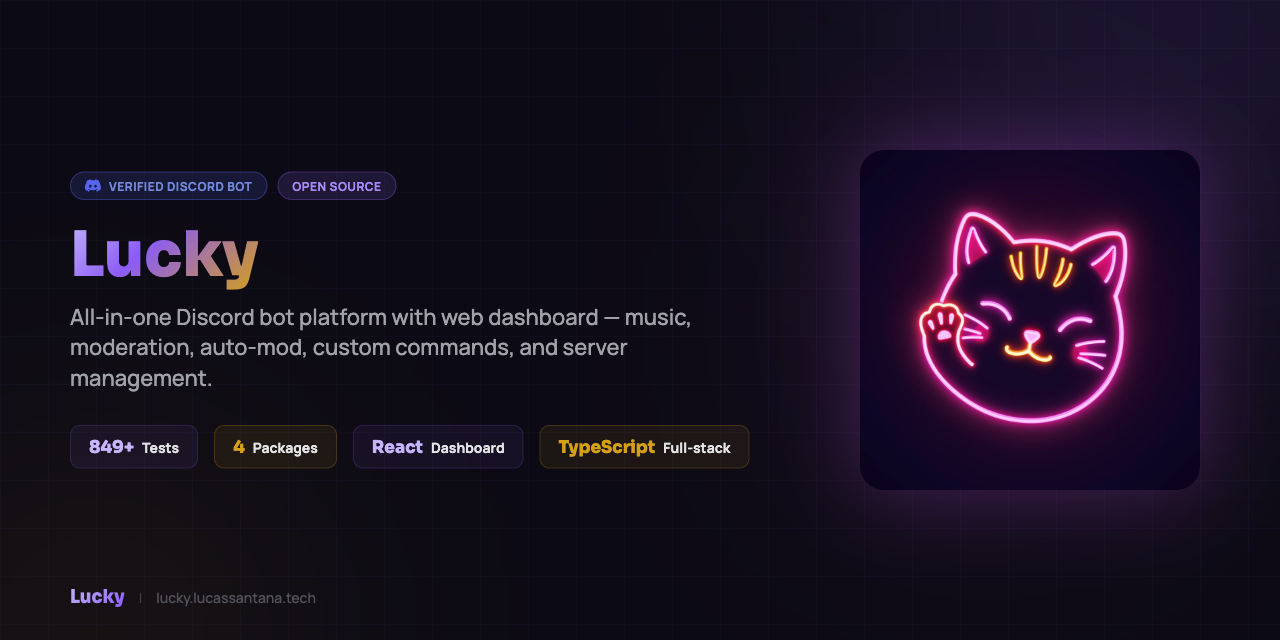
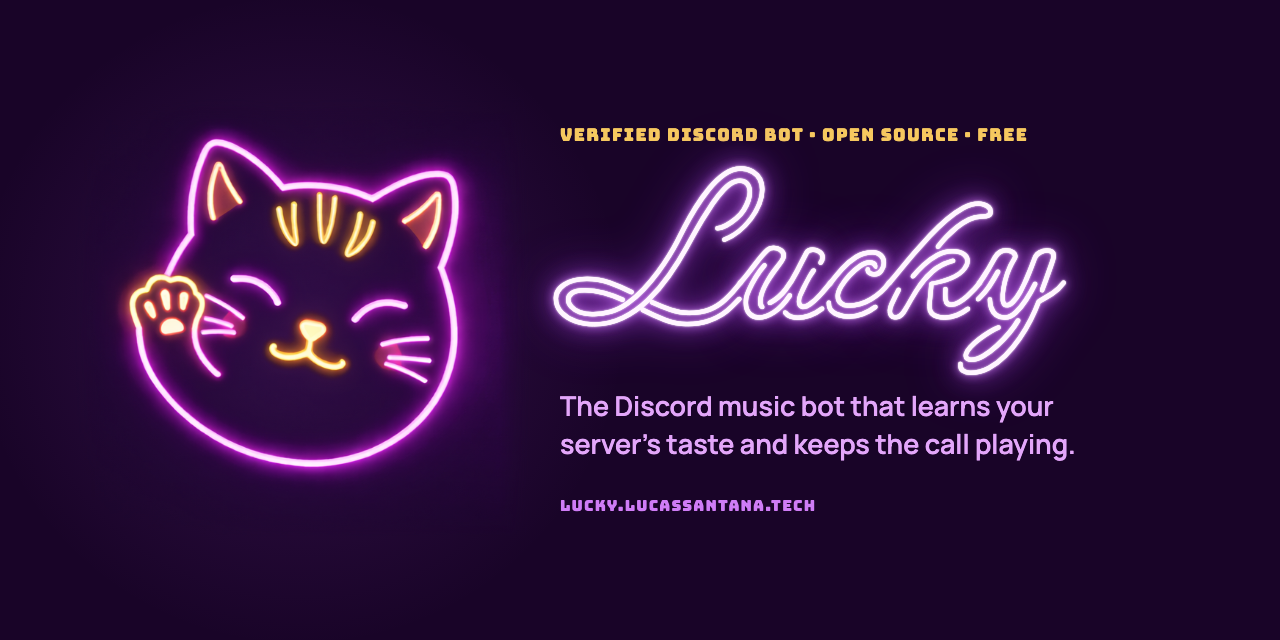
feat(brand): purple and gold neon identity with wordmarks by use (#2689)
## Description

Visual identity pass requested by the owner: keep the neon lucky cat in
purple and gold, and make it consistent.

- **The cat is not redrawn.** `branding/source/cat_cutout.py` cuts the
original cat out of `assets/lucky-banner.png` by luminance only (colours
and glow untouched) and builds a 1024 px Discord avatar. Agent-drawn SVG
evolutions were rejected this session, the fourth failed redraw (see the
2026-07-12 ADR).
- **Brand palette** sampled from the cat (Violet 300/400/500/700, Gold
400/600, Night `#190428`), with contrast values.
- **Three wordmarks by use**, all OFL Google Fonts: Assinatura =
Neonderthaw (hero/social, 64 px+), Letreiro = Monoton (banners, 26 px+),
Conservadora = Bungee (UI, docs, small sizes). Replaces the four ad-hoc
versions in use.
- **New banners**, rendered at exact sizes by
`branding/source/banners.py` (headless Chrome):
- `assets/lucky-social-preview.{png,webp}` 1280×640 (README hero,
top.gg). Drops the stale "849+ Tests" chips and the old purple/gold
gradient.
  - `packages/frontend/public/og-image.png` 1200×630.
- `assets/lucky-bot-banner.{png,webp}` 1360×480 (Discord profile banner,
2× of 680×240, left quarter kept clear for the avatar).
- **`prerender-seo.ts`**: when `public/og-image.png` exists it is
shipped as is; otherwise the resvg-generated image and the logo fallback
work as before (fail-soft kept).
- Docs: `BRANDING_GUIDE.md` gains a Brand Identity section; new ADR
[…]

diff --git a/packages/frontend/scripts/prerender-seo.ts b/packages/frontend/scripts/prerender-seo.ts
@@ -42,11 +42,22 @@ function writeRouteFile(html: string, routePath: string): string {
     return rel
 }
 
-/** Generate a real 1200×630 og-image (brand background + centered logo) via resvg.
+/** Emit the 1200×630 og-image. The designed asset `public/og-image.png` (rendered by
+ *  `branding/source/banners.py`) wins; without it, generate one via resvg
+ *  (brand background + centered logo).
  *  Fail-soft: on any error, fall back to copying the existing logo so /og-image.png
  *  always resolves to a real image (build never breaks on the image). */
 async function generateOgImage(): Promise<string> {
     const out = join(distDir, 'og-image.png')
+    const designedPath = join(publicDir, 'og-image.png')
+    if (existsSync(designedPath)) {
+        try {
+            copyFileSync(designedPath, out)
+            return 'designed asset (public/og-image.png)'
+        } catch {
+            // Fall through to the generated image below.
+        }
+    }
     const logoPath = join(publicDir, 'lucky-logo.png')
     try {
         const { Resvg } = await import('@resvg/resvg-js')

diff --git a/packages/frontend/branding/source/banners.py b/packages/frontend/branding/source/banners.py
@@ -1,0 +1,124 @@
+"""Render Lucky's brand banners to exact-size PNG (+ WebP) with headless Chrome.
+
+Wordmark roles (see ../BRANDING_GUIDE.md): Assinatura = Neonderthaw (hero/social),
+Letreiro = Monoton (Discord profile banner), Conservadora = Bungee (labels).
+Body copy uses Manrope. Fonts load from Google Fonts, so this needs network.
+
+Run: python3 packages/frontend/branding/source/banners.py   (needs Pillow >= 12.1 + Chrome/Brave;
+     set CHROME=/path/to/binary to override). Run cat_cutout.py first if the cat changed.
+"""
+import os
+import subprocess
+import tempfile
+from pathlib import Path
+
+from PIL import Image
+
+HERE = Path(__file__).resolve().parent
+ROOT = HERE.parents[3]
+CAT = (HERE / "cat-neon.png").as_uri()
+
+NIGHT, V300, V400, GOLD = "#190428", "#E3A6FA", "#CF7CF6", "#F6C85F"
+GLOW = "0 0 2px #fff,0 0 10px #CF7CF6,0 0 24px #B84DF0,0 0 52px #8f2fd0"
+TAG = "The Discord music bot that learns your server’s taste and keeps the call playing."
+FONTS = ("https://fonts.googleapis.com/css2?family=Neonderthaw&family=Monoton&family=Bungee"
+         "&family=Manrope:wght@600&display=block")
+
+# name -> (width, height, layout, outputs relative to repo root)
+BANNERS = {
+    "social-preview": (1280, 640, "hero", ["assets/lucky-social-preview.png", "assets/lucky-social-preview.webp"]),
+    "og-image": (1200, 630, "hero", ["packages/frontend/public/og-image.png"]),
+    # Discord profile banner, 2x of 680x240.
+    "discord-profile-banner": (1360, 480, "profile", ["assets/lucky-bot-banner.png", "assets/lucky-bot-banner.webp"]),
+}
+
+
+def page(w: int, h: int, body: str) -> str:
+    return f'''<!doctype html><html><head><meta charset=utf-8><link href="{FONTS}" rel=stylesheet>
+<style>html,body{{margin:0;width:{w}px;height:{h}px;overflow:hidden;background:{NIGHT}}}
+.eyebrow{{font-family:Bungee;color:{GOLD};letter-spacing:.08em}}.body{{font-family:Manrope;font-weight:600;color:{V300}}}</style></head>
+<body><div style="position:relative;width:{w}px;height:{h}px">{body}</div></body></html>'''
+
+
+def hero(w: int, h: int) -> str:
+    s = h / 640  # designed at 1280x640, scales with height
+    cat, cx, cy = 470 * s, 300 * s, h / 2
+    return page(w, h, f'''
+<div style="position:absolute;left:{cx-330*s}px;top:{cy-330*s}px;width:{660*s}px;height:{660*s}px;
+  background:radial-gradient(circle,rgba(184,77,240,.20) 0%,rgba(184,77,240,.06) 45%,rgba(25,4,40,0) 70%)"></div>
+<img src="{CAT}" style="position:absolute;left:{cx-cat/2}px;top:{cy-cat/2}px;width:{cat}px;height:{cat}px">
+<div style="position:absolute;left:{560*s}px;top:0;height:{h}px;display:flex;flex-direction:column;justify-content:center">
+  <div class=eyebrow style="font-size:{17*s}px">VERIFIED DISCORD BOT · OPEN SOURCE · FREE</div>
+  <div style="font-family:Neonderthaw;font-size:{186*s}px;line-height:1.05;color:#FFF5FF;text-shadow:{GLOW};margin:{6*s}px 0 {40*s}px -{6*s}px">Lucky</div>
+  <div class=body style="font-size:{27*s}px;line-height:1.4;max-width:{600*s}px">{TAG}</div>
+  <div class=eyebrow style="font-size:{15*s}px;color:{V400};margin-top:{34*s}px">LUCKY.LUCASSANTANA.TECH</div>
+</div>''')
+
+
+def profile(w: int, h: int) -> str:
+    # Discord draws the avatar over the bottom-left: keep x<26% empty.
+    return page(w, h, f'''
+<div style="position:absolute;left:{w*0.30}px;top:-{h*0.4}px;width:{w*0.62}px;height:{h*1.8}px;
+  background:radial-gradient(ellipse,rgba(184,77,240,.18) 0%,rgba(25,4,40,0) 62%)"></div>
+<div style="position:absolute;left:{w*0.26}px;right:{w*0.04}px;top:0;height:{h}px;display:flex;flex-direction:column;align-items:center;justify-content:center">
+  <div style="font-family:Monoton;font-size:{h*0.34}px;line-height:1;color:#FFF5FF;text-shadow:{GLOW};letter-spacing:.03em">LUCKY</div>
+  <div class=eyebrow style="font-size:{h*0.058}px;margin-top:{h*0.07}px">MUSIC · AUTOPLAY · DASHBOARD</div>
+</div>''')
+
+
+def chrome() -> str:
+    for c in (os.environ.get("CHROME"),
+              "/Applications/Google Chrome.app/Contents/MacOS/Google Chrome",
+              "/Applications/Brave Browser.app/Contents/MacOS/Brave Browser",
+              "/usr/bin/google-chrome", "/usr/bin/chromium"):
+        if c and Path(c).exists():
+            return c
+    raise SystemExit("No Chrome/Brave found; set CHROME=/path/to/binary")
+
+
+# Paints the page magenta if any brand font failed to load, so the check below rejects it.
+FONT_GUARD = """<script>window.addEventListener('load', async () => {
+  const faces = ['16px "Neonderthaw"', '16px "Monoton"', '16px "Bungee"', '600 16px "Manrope"'];
+  const loaded = await Promise.all(faces.map(f => document.fonts.load(f).then(r => r.length > 0, () => false)));
+  if (!loaded.every(Boolean)) document.documentElement.style.background = document.body.style.background = '#ff00ff';
+});</script>"""
+MIN_NEON = 0.01  # share of bright pixels (cat + wordmark); a blank render has ~0
+
+
+def render(name: str, w: int, h: int, layout: str, browser: str, tmp: Path) -> Image.Image:
+    html = tmp / f"{name}.html"
+    page_html = hero(w, h) if layout == "hero" else profile(w, h)
+    html.write_text(page_html.replace("</body>", FONT_GUARD + "</body>"), encoding="utf-8")
+    shot = tmp / f"{name}.png"
+    subprocess.run([browser, "--headless=new", "--disable-gpu", "--hide-scrollbars",
+                    "--force-device-scale-factor=1", "--virtual-time-budget=15000",
+                    f"--window-size={w},{h}", f"--screenshot={shot}", html.as_uri()],
+                   check=True, capture_output=True, timeout=120)
+    im = Image.open(shot).convert("RGB")
+    if im.size != (w, h):
+        raise SystemExit(f"{name}: got {im.size}, expected {(w, h)}")
+    if im.getpixel((1, 1)) == (255, 0, 255):
+        raise SystemExit(f"{name}: a brand font did not load (Google Fonts unreachable?)")
+    bright = sum(1 for p in im.get_flattened_data() if max(p) > 200) / (w * h)
+    if bright < MIN_NEON:
+        raise SystemExit(f"{name}: looks blank ({bright:.2%} bright pixels, need {MIN_NEON:.0%})")
+    return im
+
+
+def save(im: Image.Image, outputs: list[str]) -> None:
+    for rel in outputs:
+        dest = ROOT / rel
+        if dest.suffix == ".webp":
+            im.save(dest, "WEBP", quality=88, method=6)
+        else:
+            im.save(dest, "PNG", optimize=True)
+        print("wrote", rel)
+
+
+if __name__ == "__main__":
+    browser = chrome()
+    with tempfile.TemporaryDirectory() as t:
+        # Render and check everything first; shipped files are only touched if all pass.
+        done = [(render(n, w, h, layout, browser, Path(t)), outs) for n, (w, h, layout, outs) in BANNERS.items()]
+    for im, outs in done:
+        save(im, outs)

diff --git a/packages/frontend/branding/source/cat_cutout.py b/packages/frontend/branding/source/cat_cutout.py
@@ -1,0 +1,60 @@
+"""Cut the neon cat out of assets/lucky-banner.png and build the bot avatar.
+
+The cat is never redrawn: alpha comes from a max-channel brightness mask, so every original
+colour and glow survives (see decisions/2026-07-12-brand-asset-regen-tooling.md).
+Writes, next to this file:
+  cat-neon.png     640x640 transparent cat, for dark backgrounds only
+  avatar-1024.png  1024x1024 Discord avatar (cat on Night #190428)
+
+Run: python3 packages/frontend/branding/source/cat_cutout.py   (needs Pillow >= 12.1)
+"""
+from pathlib import Path
+
+from PIL import Image
+
+HERE = Path(__file__).resolve().parent
+ROOT = HERE.parents[3]
+SRC = ROOT / "assets" / "lucky-banner.png"
+BOX = (90, 200, 730, 840)  # square crop with margin around the cat
+NIGHT = (25, 4, 40, 255)
+RAMP = 45  # brightness (max RGB channel) range over which alpha goes 0 -> 255
+FEATHER = 48  # px faded at the crop border so no tile edge shows
+
+
+def cutout() -> Image.Image:
+    im = Image.open(SRC).convert("RGB").crop(BOX)
+    w, h = im.size
+    # Noise floor = median brightness of the crop border (the banner background).
+    border = sorted(
+        max(im.getpixel((x, y)))
+        for x in range(w)
+        for y in range(h)
+        if min(x, y, w - 1 - x, h - 1 - y) < 12
+    )
+    t0 = border[len(border) // 2]
+    out = []
+    for i, p in enumerate(im.get_flattened_data()):
+        x, y = i % w, i // w
+        lum = max(p)
+        a = 0.0 if lum <= t0 else 255.0 if lum >= t0 + RAMP else (lum - t0) * 255 / RAMP
+        d = min(x, y, w - 1 - x, h - 1 - y)
+        if d < FEATHER:
+            a *= (d / FEATHER) ** 2
+        out.append(p + (int(a),))
+    cat = Image.new("RGBA", (w, h))
+    cat.putdata(out)
+    return cat
+
+
+def avatar(cat: Image.Image, size: int = 1024) -> Image.Image:
+    bg = Image.new("RGBA", (size, size), NIGHT)
+    s = int(size * 0.98)
+    bg.alpha_composite(cat.resize((s, s), Image.LANCZOS), ((size - s) // 2, (size - s) // 2 + size // 100))
+    return bg.convert("RGB")
+
+
+if __name__ == "__main__":
+    cat = cutout()
+    cat.save(HERE / "cat-neon.png", optimize=True)
+    avatar(cat).save(HERE / "avatar-1024.png", optimize=True)
+    print("wrote cat-neon.png, avatar-1024.png")

diff --git a/packages/frontend/branding/BRANDING_GUIDE.md b/packages/frontend/branding/BRANDING_GUIDE.md
@@ -23,6 +23,71 @@
 - Allowed backgrounds: Dark neutral surfaces.
 - Avoid: Stretching, recoloring, glow backdrops, or gradient overlays behind the logo.
 
+## Brand Identity (marketing assets)
+
+Decided 2026-10-07, see `decisions/2026-10-07-brand-purple-gold-wordmark-family.md`.
+Applies to banners, social previews, the og-image, the bot avatar and store listings.
+The dashboard UI keeps the palette in **Color System** below.
+
+### The cat
+
+- The mark is the original neon lucky cat (purple outline, gold stripes and paw) from
+  `assets/lucky-banner.png`. Never redraw it by hand or in SVG; a refined cat comes from an
+  image model fed the original, or from an illustrator.
+- Masters in `branding/source/`: `cat-neon.png` (transparent, dark backgrounds only) and
+  `avatar-1024.png` (Discord avatar on Night). Regenerate with `cat_cutout.py`.
+- On light backgrounds, put the cat on a Night `#190428` tile (rounded square).
+- Below 24 px the neon cat does not read; a small-size cut is still open.
+
+### Palette
+
+Sampled from the cat. Contrast is against Night `#190428` unless the row says white.
+
+| Token      | HEX       | Use                                                            | Contrast        |
+| ---------- | --------- | -------------------------------------------------------------- | --------------- |
+| Violet 300 | `#E3A6FA` | neon core, light text                                          | 10.2            |
+| Violet 400 | `#CF7CF6` | neon halo, secondary text                                      | 7.2             |
+| Violet 500 | `#B84DF0` | primary brand colour                                           | 4.9             |
+| Violet 700 | `#6E1A9E` | surfaces only, never text on dark                              | 2.1             |
+| Gold 400   | `#F6C85F` | accent: eyebrows, highlights                                   | 12.3            |
+| Gold 600   | `#C9922E` | large or decorative gold on light backgrounds, print; not text | 7.0 (2.8 white) |
+| Gold 800   | `#8A5F12` | gold text on light backgrounds                                 | 5.6 on white    |
+| Night      | `#190428` | brand background                                               |                 |
+| Neon white | `#FFF5FF` | wordmark                                                       | 18.1            |
+
+Neon glow (CSS): `0 0 2px #fff, 0 0 10px #CF7CF6, 0 0 24px #B84DF0, 0 0 52px #8f2fd0`.
+
+### Wordmarks by use
+
+All are Google Fonts under the SIL Open Font License, which allows logo use. Pick by size
+and context; never mix two wordmarks in one piece.
+
+| Role         | Font        | Text    | Use                                                        | Not for                         |
+| ------------ | ----------- | ------- | ---------------------------------------------------------- | ------------------------------- |
+| Assinatura   | Neonderthaw | `Lucky` | hero, social preview, og-image, merch; 64 px+              | UI chrome, anything under 40 px |
+| Letreiro     | Monoton     | `LUCKY` | banners, thumbnails, campaign titles; 26 px+               | under 24 px, running text       |
+| Conservadora | Bungee      | `LUCKY` | UI, docs, README, listings, light backgrounds, small sizes | (default when in doubt)         |
+
+Supporting type in brand pieces: Bungee for gold eyebrows and URLs, Manrope 600 for body copy.
+
+### Lockups
+
+- Horizontal: cat height `H`; gap `0.2H` (`0.1H` for Assinatura, which has its own swash);
+  wordmark vertically centred on the cat.
+- Stacked: wordmark at `0.8H` under the cat, gap `0.04H`.
+
+### Banners
+
+Rendered by `branding/source/banners.py` (headless Chrome, exact sizes):
+
+| Asset                                    | Size     | Wordmark   |
+| ---------------------------------------- | -------- | ---------- |
+| `assets/lucky-social-preview.{png,webp}` | 1280×640 | Assinatura |
+| `packages/frontend/public/og-image.png`  | 1200×630 | Assinatura |
+| `assets/lucky-bot-banner.{png,webp}`     | 1360×480 | Letreiro   |
+
+The Discord profile banner keeps its left quarter empty, where Discord draws the avatar.
+
 ## Color System
 
 **Single accent** (resolved 2026-10-01, see `decisions/2026-10-01-blurple-focus-only.md`, which supersedes the 2026-04-21 dual accent):
@@ -30,7 +95,7 @@
 - **Accent** (CTAs, active nav, live pings, highlights, gradient accents): Neon Pink `#ec4899`; filled buttons use `#db2777`, hover `#be185d`.
 - **Focus rings only**: Discord Blurple `#5865f2`, via the `--color-lucky-focus` token (`ring-lucky-focus`).
 
-Removed gold family (`#d4a017`, etc.) and old purple (`#8b5cf6`, etc.) — not part of the brand palette.
+Removed gold family (`#d4a017`, etc.) and old purple (`#8b5cf6`, etc.) from the UI palette. The brand assets use their own purple and gold (see **Brand Identity** above).
 
 | Purpose                  | Color                                  |
 | ------------------------ | -------------------------------------- |

diff --git a/decisions/2026-10-07-brand-purple-gold-wordmark-family.md b/decisions/2026-10-07-brand-purple-gold-wordmark-family.md
@@ -1,0 +1,54 @@
+# Brand identity: purple and gold neon, one cat, three wordmarks by use
+
+- **Date:** 2026-10-07
+- **Status:** Accepted
+- **Deciders:** Lucas Santana
+- **Scope:** Marketing and identity assets (`assets/`, `packages/frontend/public/og-image.png`,
+  `packages/frontend/branding/`). The dashboard UI tokens are out of scope.
+- **Amends:** the "removed gold family" line of `packages/frontend/branding/BRANDING_GUIDE.md`
+  for brand assets, and the "not another generation attempt" line of the FINAL DECISION in
+  `decisions/2026-07-12-brand-asset-regen-tooling.md`: on 2026-10-07 the owner approved one more
+  image-model pass fed the original cat, anchored on owner-supplied references. Its "keep the
+  original mascot" still holds until that pass is approved.
+
+## Context
+
+The owner asked to improve the visual identity: "the lucky cat in purple and gold neon is
+the right direction and matches what we have, but it lacks consistency and identity". The
+audit found four wordmarks in use (`lucky.`, a purple-to-gold gradient `Lucky`, a glowing
+white `Lucky`, a spaced `LUCKY` in Inter), two cat variants (pink outline in the avatar and
+favicon, purple outline in `lucky-banner.png`), banners in the old palette, and orphan purple
+hexagon SVGs (`assets/lucky-logo.svg`, `public/favicon.svg`).
+
+Three agent-drawn SVG evolutions of the cat were rejected ("basic, lost the original
+aesthetic"), the fourth time a redraw of the cat has failed (three paths failed in July).
+
+## Decision
+
+- **The cat is the original neon cat from `assets/lucky-banner.png` (purple outline, gold
+  details)**, cut out with a max-channel brightness mask (alpha only, colours untouched), never
+  redrawn. A refined cat may come later from an image model fed the original as a reference
+  (or a human illustrator), not from agent SVG.
+- **Brand palette (sampled from the cat):** Violet 300 `#E3A6FA`, 400 `#CF7CF6`, 500
+  `#B84DF0`, 700 `#6E1A9E`; Gold 400 `#F6C85F`, 600 `#C9922E`, 800 `#8A5F12` (text on light);
+  Night `#190428`; Neon white
+  `#FFF5FF`.
+- **Wordmark family by use**, all Google Fonts under the OFL:
+  Assinatura = Neonderthaw (hero, social, 64 px and up);
+  Letreiro = Monoton (banners, thumbnails, 26 px and up);
+  Conservadora = Bungee (UI, docs, small sizes, light backgrounds).
+- Banners and the og-image are rendered from `packages/frontend/branding/source/banners.py`,
+  so swapping the cat is one file plus one command.
+
+## Consequences
+
+- The UI still uses the pink accent (`decisions/2026-10-01-blurple-focus-only.md`). Moving the
+  dashboard to purple and gold is a separate owner decision.
+- The neon cat stays unreadable at 16 to 24 px (favicon, small avatar). That waits for the
+  refined cat and a dedicated small-size cut.
+- Avatar and profile banner are changed by the owner in the Discord Developer Portal.
+
+## Revisit when
+
+The refined cat is approved (rerun `cat_cutout.py` and `banners.py` on it), or the UI
+palette question is decided.

diff --git a/decisions/README.md b/decisions/README.md
@@ -1,10 +1,11 @@
 # Architecture Decision Records
 
-142 ADRs, indexed by status, newest first within each group. Generated from each file's own Status field (or, for the 3 files with none, from its content) - see #1964.
+143 ADRs, indexed by status, newest first within each group. Generated from each file's own Status field (or, for the 3 files with none, from its content) - see #1964.
 
 
-## Accepted (135)
+## Accepted (136)
 
+- [2026-10-07 - Brand identity: purple and gold neon, one cat, three wordmarks by use](2026-10-07-brand-purple-gold-wordmark-family.md) - _Accepted (amends the brand palette in `packages/frontend/branding/BRANDING_GUIDE.md`)_
 - [2026-10-07 - The pitch leads with the weekly recap; thumbs feedback moves onto the now-playing message](2026-10-07-pitch-leads-with-weekly-recap.md) - _Accepted (amends the pitch of `2026-09-27-music-first-positioning.md`)_
 - [2026-10-01 - Batch merged work into fewer releases; the frontend ships with the release](2026-10-01-batched-releases.md) - _Accepted (supersedes the human ship-checkpoint of `2026-06-16-release-cadence-automate-releases.md`)_
 - [2026-10-01 - Discord blurple is the focus color only; pink is the single brand accent](2026-10-01-blurple-focus-only.md) - _Accepted (supersedes the dual accent of `2026-04-21-redesign-port-target.md`)_

diff --git a/decisions/2026-07-12-brand-asset-regen-tooling.md b/decisions/2026-07-12-brand-asset-regen-tooling.md
@@ -2,6 +2,7 @@
 
 - **Date:** 2026-07-12
 - **Status:** Accepted — pilot completed (see Pilot outcome + FINAL DECISION below: keep the original mascot)
+- **Amended by:** `decisions/2026-10-07-brand-purple-gold-wordmark-family.md` (owner approved one more reference-anchored image-model pass on the cat)
 - **Deciders:** Lucas Santana
 - **Method:** `/research-and-decide` — CLI-verified capability probe + web-doc research + artifact-only `decision-critic` (returned NEEDS_REVISION → decision revised to hybrid)
 
